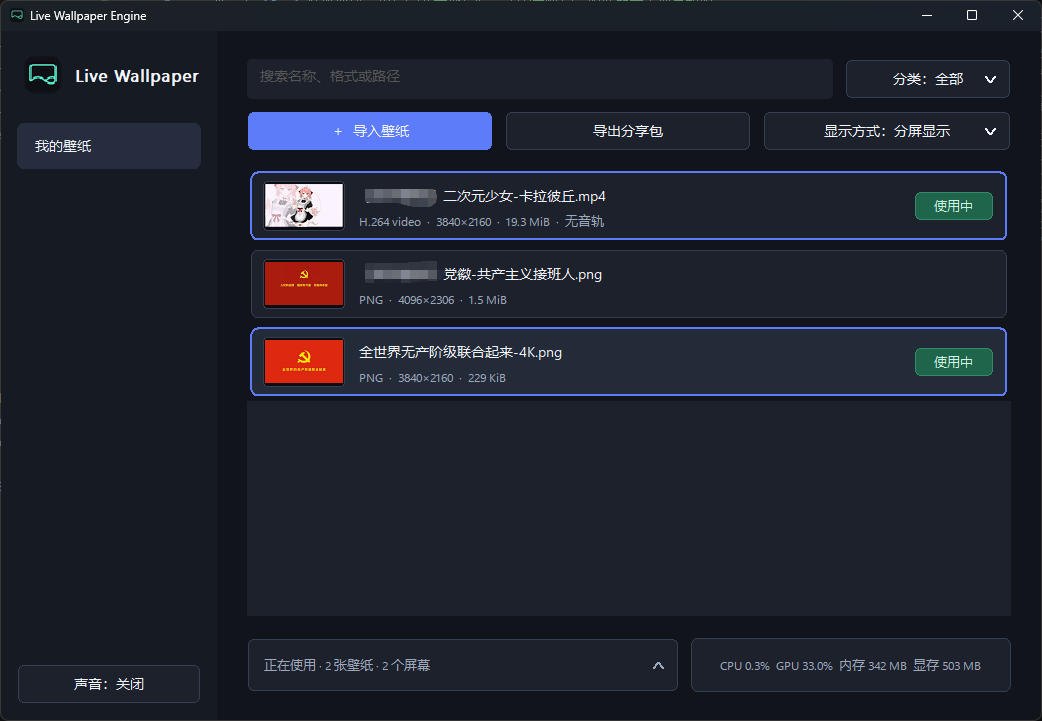
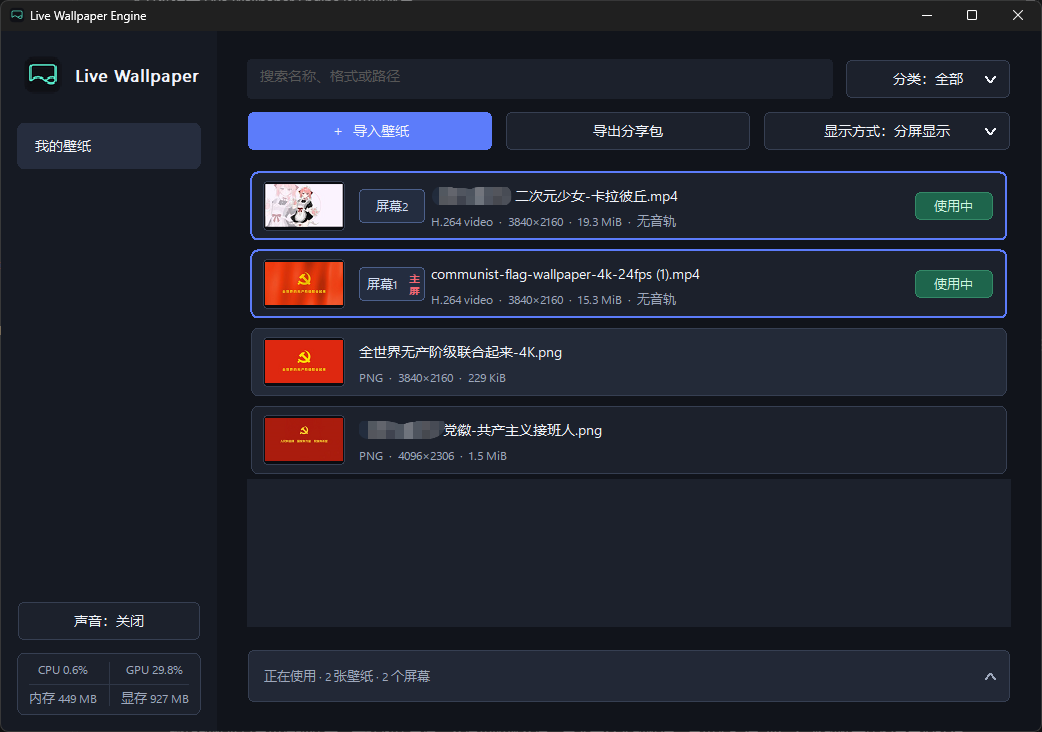
docs: update application preview

diff --git a/CHANGELOG.md b/CHANGELOG.md
@@ -6,6 +6,10 @@
 
 ## [Unreleased]
 
+### Changed
+
+- 更新 README 中的应用预览图，展示当前多屏壁纸分配、主屏标识与资源占用布局。
+
 ## [0.4.1] - 2026-08-25
 
 ### Changed
